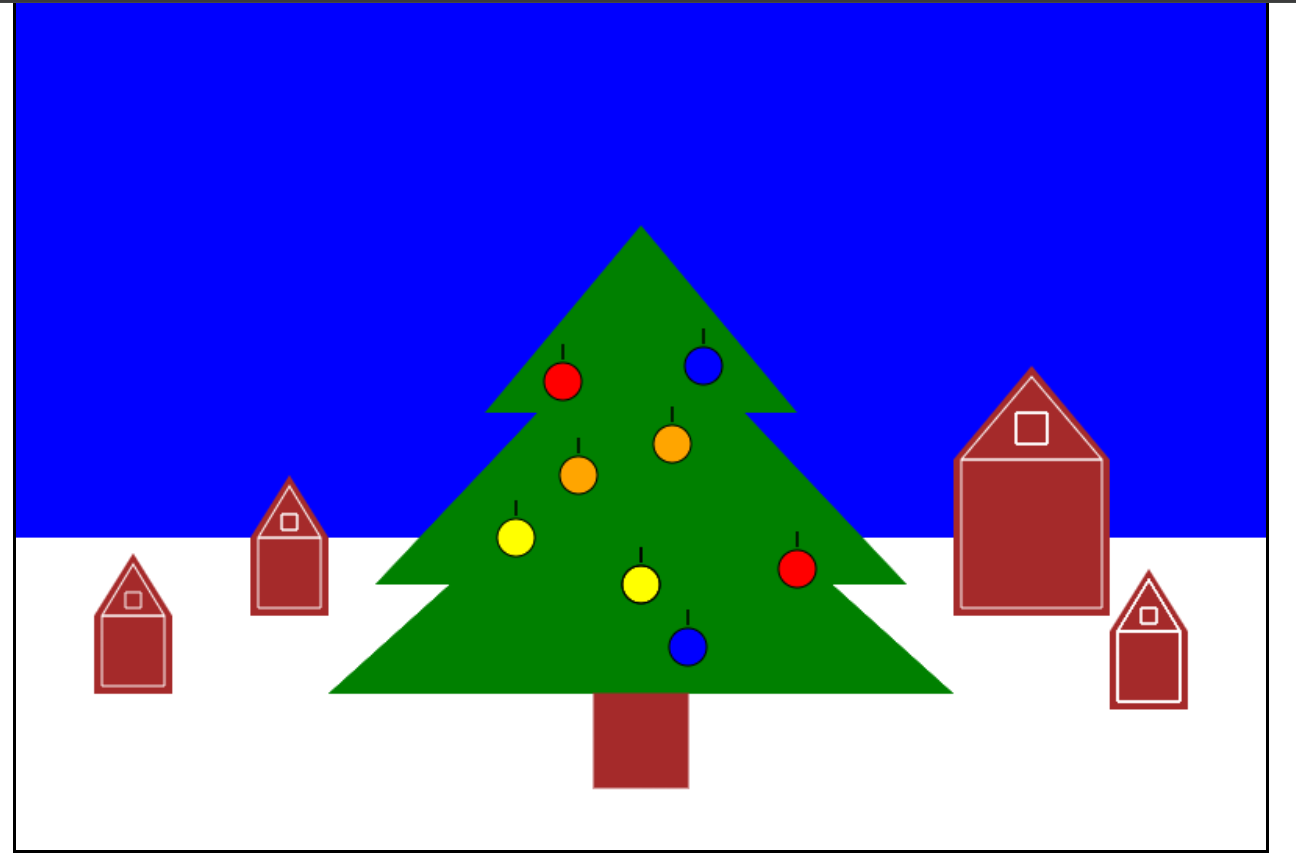
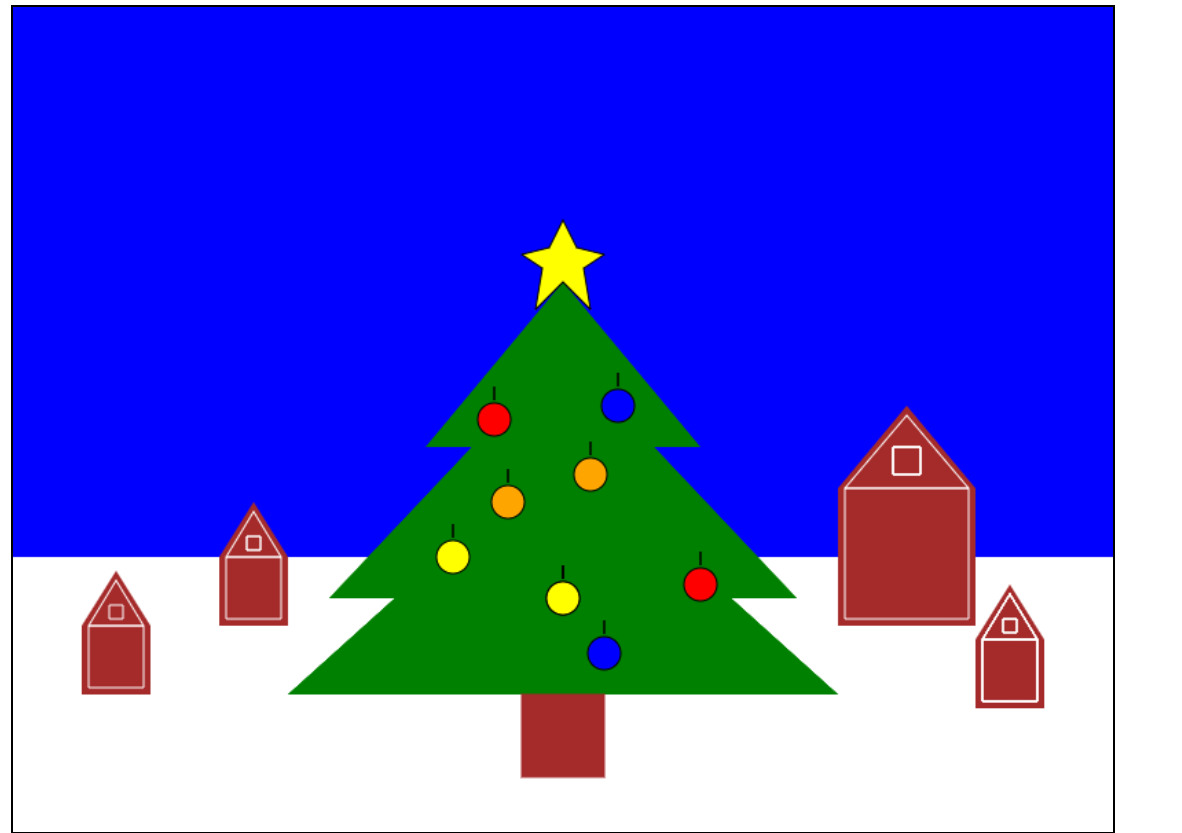
ster

Changed region(s): [[0.0, 0.0, 1.0, 1.0], [0.4569, 0.6555, 0.5178, 0.7491]]

diff --git a/les1.js b/les1.js
@@ -133,4 +133,20 @@ g.stroke();
    circal(430, 470, 12, 0, 2, "blue", false )
    circal(400, 430, 12, 0, 2, "yellow", false )
    
+ 
+    
+  g.moveTo(400,200);
+  g.lineTo(380, 220)
+  g.lineTo(380, 220)
+  g.lineTo(385, 190)
+  g.lineTo(370, 180)
+  g.lineTo(390, 175)
+  g.lineTo(400, 155)
+  g.lineTo(410,175)
+  g.lineTo(430, 180)
+  g.lineTo(415, 190)
+  g.lineTo(420, 220)
+  g.lineTo(400, 200)
+ g.fillStyle = "yellow"
+ g.fill()
   g.stroke();
